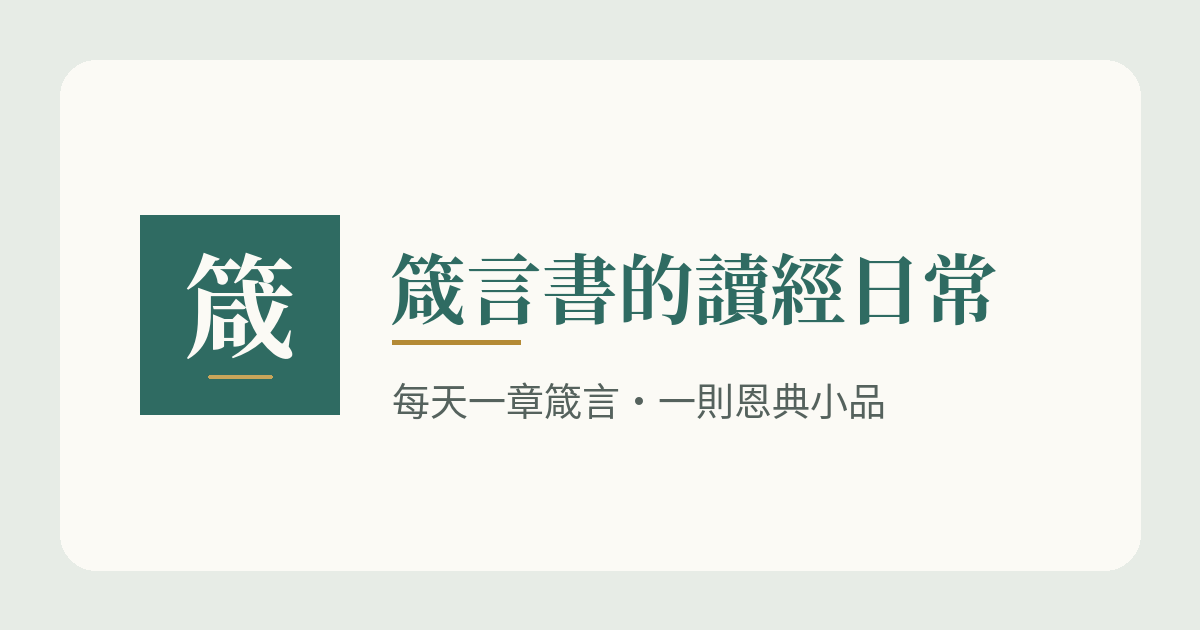
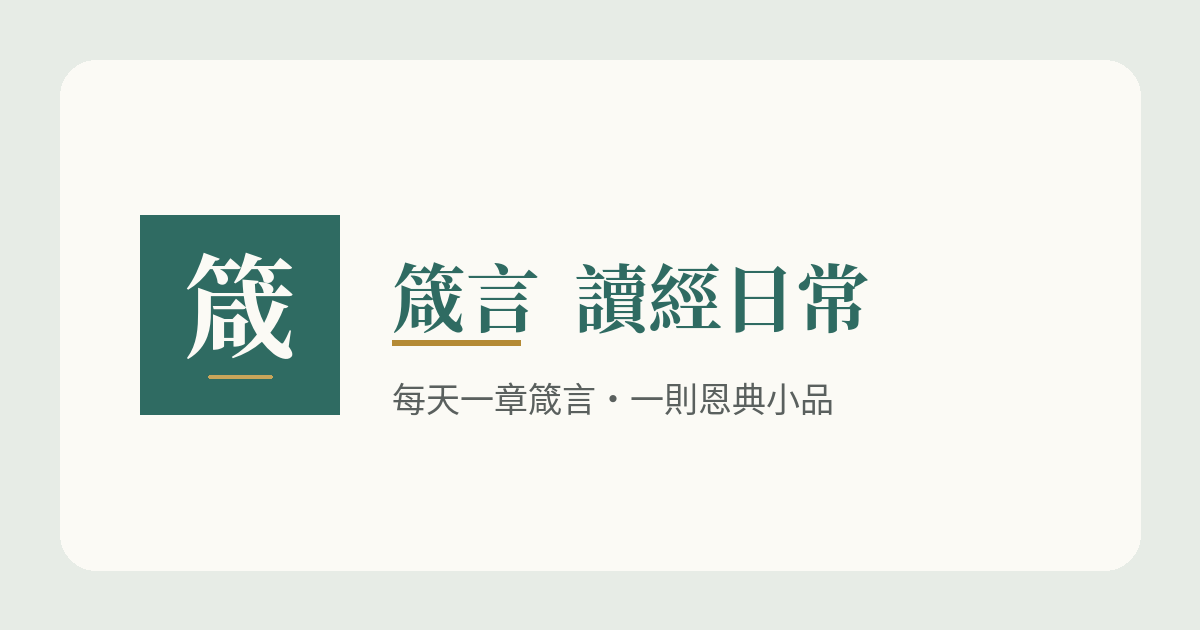
名稱統一為「箴言讀經日常」（含預覽圖）；留言備註改橘色；回首頁收起留言區；頁面標題改醒目
Claude-Session: https://claude.ai/code/session_011Q4zuMVjkvJ3G2ZLc4aFzz

Changed region(s): [[0.3083, 0.3921, 0.8325, 0.5429], [0.3083, 0.6032, 0.74, 0.6635]]

diff --git a/index.html b/index.html
@@ -3,11 +3,11 @@
 <head>
 <meta charset="utf-8">
 <meta name="viewport" content="width=device-width, initial-scale=1">
-<title>箴言書的讀經日常</title>
+<title>箴言讀經日常</title>
 <meta name="description" content="每天一章箴言，一則恩典小品、一段默想、一段禱告。">
 <meta name="theme-color" content="#2f6b62">
 <meta property="og:type" content="website">
-<meta property="og:title" content="箴言書的讀經日常">
+<meta property="og:title" content="箴言讀經日常">
 <meta property="og:description" content="每天一章箴言，一則恩典小品、一段默想、一段禱告。">
 <meta property="og:image" content="https://yile555.github.io/bible-daily/og.png">
 <meta property="og:url" content="https://yile555.github.io/bible-daily/">
@@ -45,7 +45,7 @@ button:focus-visible,a:focus-visible,textarea:focus-visible,summary:focus-visibl
 .greet{text-align:center;font-family:var(--font-display);font-size:calc(15px * var(--fs,1));letter-spacing:.3em;color:var(--accent);margin-bottom:-6px}
 .prayer{background:transparent;border:1px dashed var(--gold);border-radius:14px;padding:20px 22px;display:flex;flex-direction:column;gap:10px}
 .prayer[hidden]{display:none}
-.card .ptitle,.prayer .ptitle{font-size:calc(14px * var(--fs,1));color:var(--muted);letter-spacing:.1em}
+.card .ptitle,.prayer .ptitle{font-size:calc(16px * var(--fs,1));color:var(--accent);font-weight:700;letter-spacing:.12em}
 .prayer p{font-family:var(--font-display);font-size:calc(19px * var(--fs,1));line-height:1.95;margin:0}
 .prayer .bless{font-size:calc(16px * var(--fs,1));color:var(--accent);font-weight:500;padding-top:6px;border-top:1px solid var(--line)}
 @media (prefers-reduced-motion:no-preference){ .prayer.show{animation:rise .6s ease-out} }
@@ -78,7 +78,7 @@ body.night .dot.done{background:#24413b;border-color:#2f5a51}
 
 .story{position:relative;background:var(--paper);border-radius:14px;padding:24px 22px 20px;border:1px solid var(--line);display:flex;flex-direction:column;gap:14px}
 .story[hidden]{display:none}
-.story .tag{display:flex;align-items:center;gap:8px;font-size:calc(14px * var(--fs,1));color:var(--muted)}
+.story .tag{display:flex;align-items:center;gap:8px;font-size:calc(16px * var(--fs,1));color:var(--accent);font-weight:700;letter-spacing:.12em}
 .story p{font-family:var(--font-display);font-size:calc(20px * var(--fs,1));line-height:1.95;margin:0}
 .story .reflect{border-top:1px dashed var(--gold);padding-top:12px;display:flex;flex-direction:column;gap:4px}
 .story .reflect[hidden]{display:none}
@@ -304,7 +304,8 @@ body.night .linebar{background:#3a3220;border-color:#6b5a2a;color:#f3e2b0}
 .fbmsg{display:block;width:100%;box-sizing:border-box;min-height:110px;margin:6px 0 10px;padding:12px;border:1px solid var(--line);border-radius:12px;background:#fff;color:var(--ink);font:inherit;font-size:calc(16px * var(--fs,1));line-height:1.6;resize:vertical}
 .fbname{display:block;width:100%;box-sizing:border-box;margin:0 0 10px;padding:10px 12px;border:1px solid var(--line);border-radius:12px;background:#fff;color:var(--ink);font:inherit;font-size:calc(16px * var(--fs,1))}
 .fbsend{display:block;width:100%;margin-bottom:6px}
-.fbnote{font-size:calc(14px * var(--fs,1));color:var(--muted)}
+.fbnote{font-size:calc(14px * var(--fs,1));color:#c4741f}
+body.night .fbnote{color:#e3a35a}
 .fbstat{margin:6px 0 12px;font-size:calc(15px * var(--fs,1));color:var(--accent);min-height:1em}
 ruby{ruby-position:over}
 rt{font-size:.42em;color:var(--muted);letter-spacing:0;font-family:var(--font-body,sans-serif)}
@@ -346,7 +347,7 @@ rt{font-size:.42em;color:var(--muted);letter-spacing:0;font-family:var(--font-bo
     </details>
     <details class="help" id="fbBox">
       <summary>有誤之處，歡迎指教與建議</summary>
-      <p class="tipline">您的批評與鼓勵，都是「箴言書的讀經日常」成長的動力。</p>
+      <p class="tipline">您的批評與鼓勵，都是「箴言讀經日常」成長的動力。</p>
       <p class="tipline fbnote">您的留言只提供改善工具使用，不會用在工具以外。</p>
       <textarea id="fbMsg" class="fbmsg" placeholder="例如：11 月 17 日的故事有錯字……"></textarea>
       <input type="checkbox" id="fbBot" hidden tabindex="-1" autocomplete="off">
@@ -6785,6 +6786,7 @@ function showPage(n, dir){
   if (dir) { void el.offsetWidth; el.classList.add(dir > 0 ? "in-next" : "in-back"); }
   window.scrollTo({top:0});
   $("datebar").hidden = n === 0;
+  if (n === 0) $("fbBox").open = false;   // 回首頁時，留言區收起來
   document.querySelector(".pnav").hidden = n === 0;
   renderNav();
   if (n === 1) requestAnimationFrame(() => layoutFrame(dir < 0));

diff --git a/preview.html b/preview.html
@@ -3,11 +3,11 @@
 <head>
 <meta charset="utf-8">
 <meta name="viewport" content="width=device-width, initial-scale=1">
-<title>箴言書的讀經日常</title>
+<title>箴言讀經日常</title>
 <meta name="description" content="每天一章箴言，一則恩典小品、一段默想、一段禱告。">
 <meta name="theme-color" content="#2f6b62">
 <meta property="og:type" content="website">
-<meta property="og:title" content="箴言書的讀經日常">
+<meta property="og:title" content="箴言讀經日常">
 <meta property="og:description" content="每天一章箴言，一則恩典小品、一段默想、一段禱告。">
 <meta property="og:image" content="https://yile555.github.io/bible-daily/og.png">
 <meta property="og:url" content="https://yile555.github.io/bible-daily/">
